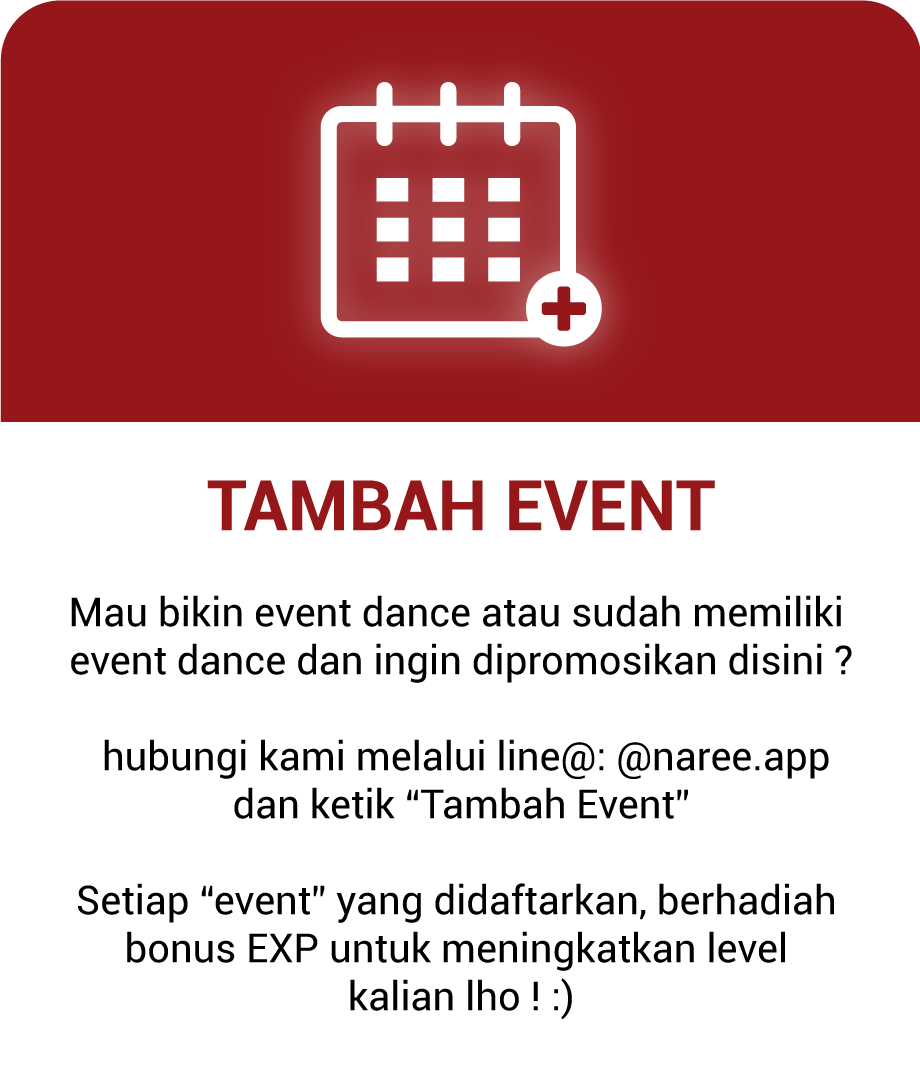
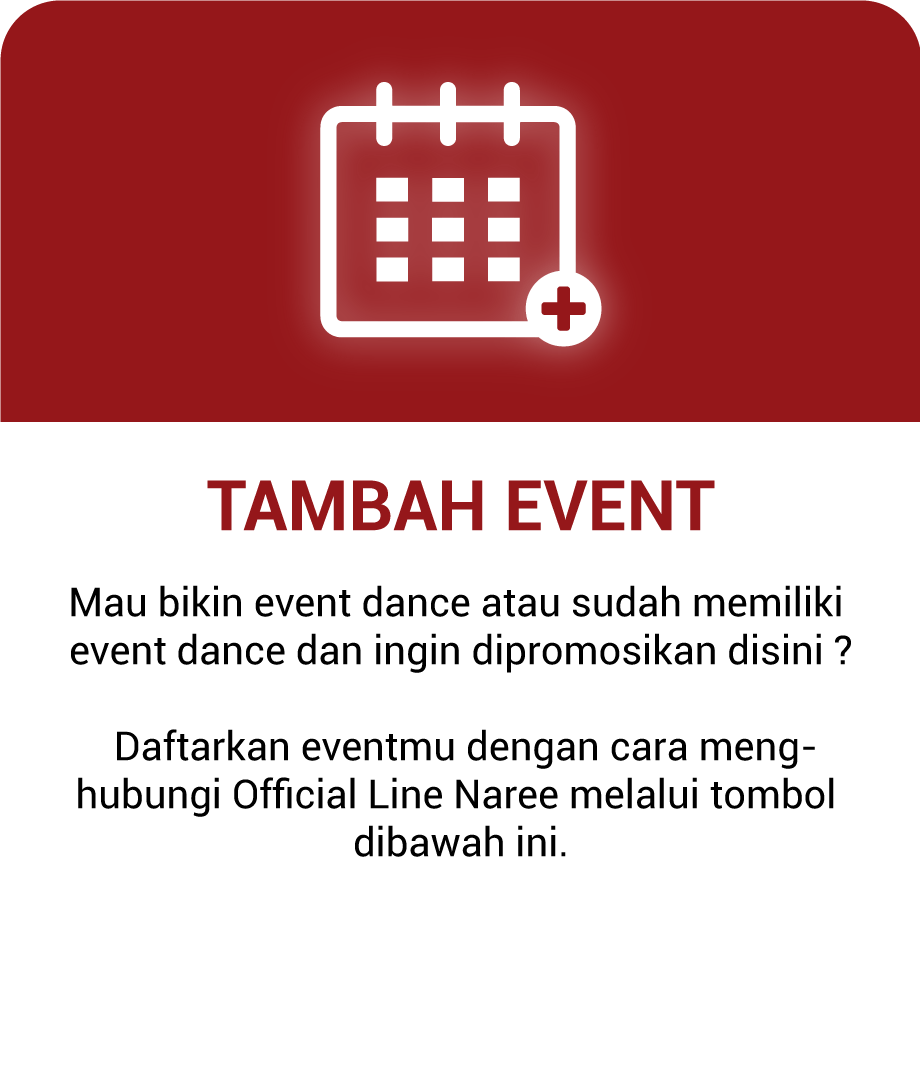
ganti UI addevent

diff --git a/nareeapps/src/pages/tambahevent/tambahevent.scss b/nareeapps/src/pages/tambahevent/tambahevent.scss
@@ -8,4 +8,22 @@ page-tambahevent {
         padding-block-start: 15%;
         border-radius: 20px;
     }
+    .link {
+        text-align: center;
+        bottom: 30%;
+        z-index: 999;
+    }
+    ion-card {
+        position: relative;
+        text-align: center;
+        background-color: transparent;
+    }
+    .card-title {
+        position: absolute;
+        top: 60%;
+        font-weight: bold;
+        left: 10%;
+        color: #fff;
+        width: 80%
+    }
 }

diff --git a/nareeapps/src/pages/tambahevent/tambahevent.html b/nareeapps/src/pages/tambahevent/tambahevent.html
@@ -1,5 +1,11 @@
 <ion-content class="konten" padding>
+
     <div (click)="dismiss()">
         <img class="ini" src="assets/imgs/tambah.png">
     </div>
+    <a button class="card-title" ion-button color="primary" large round type="submit" style="text-transform: none;height: 45px;" href="https://line.me/R/ti/p/%40qqz5960x">
+            Hubungi Official Line Naree
+    </a>
+
+
 </ion-content>>

diff --git a/nareeapps/src/pages/more/more.scss b/nareeapps/src/pages/more/more.scss
@@ -31,4 +31,12 @@ page-more {
         text-align: center;
         size: 16px;
     }
+    .toolbar-md-primary .bar-button-clear-md,
+    .toolbar-md-primary .bar-button-default-md,
+    .toolbar-md-primary .bar-button-outline-md,
+    .toolbar-md-primary .toolbar-title-md {
+        color: #fff;
+        margin-left: 0px;
+        padding-left: 0px;
+    }
 }

diff --git a/nareeapps/src/pages/home/home.scss b/nareeapps/src/pages/home/home.scss
@@ -7,7 +7,7 @@ page-home {
     }
     .image-news {
         height: 15vh;
-        width: 130px;
+        width: 15vh;
         float: left;
         margin-right: 10px;
     }
